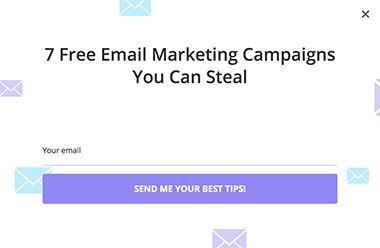
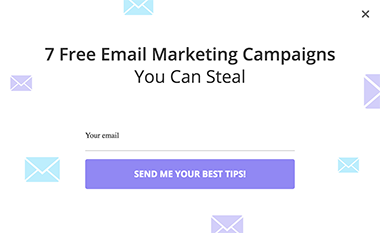
changes according same look for lahore theme

diff --git a/lib/themes/lahore/element.scss b/lib/themes/lahore/element.scss
@@ -14,7 +14,7 @@
   #hellobar-alert {
     border-radius: 0px;
     .hb-cta {
-      max-width: none;
+      max-width: 24em;
     }
 
     .hb-content-wrapper {
@@ -30,28 +30,29 @@
         }
       }
     }
+    .hb-headline-text,
+    .hb-secondary-text {
+      margin:0;
+      font-size: 2em;
+      font-weight: 600;
+    }
+    .hb-secondary-text{
+      font-weight: 400;
+    }
   }
   #hellobar-modal {
     padding: 78px;
     max-width: 43.5em;
-    .hb-headline-text {
-      font-size: 2em;
-      margin-bottom: 0.6em;
-      font-weight: 600;
-    }
-    .hb-secondary-text {
-      font-size: 1em;
-    }
     .hb-name-input {
       margin-bottom: 5px;
     }
     .hb-input-wrapper{
       position: relative;
       z-index: 10;
-      max-width: 34.5em;
+      max-width: 24em;
     }
     .questionslist{
-      max-width:34.5em;
+      max-width: 24em;
       margin-left: auto;
       margin-right: auto;
     }
@@ -62,27 +63,38 @@
     }
   }
   #hellobar-takeover {
-    .hb-headline-text {
-      font-size: 1.6em;
-      font-weight: 600;
+    .hb-input-block{
+      input {
+        font-size: 0.7em;
+      }
     }
-    .hb-secondary-text {
-      font-size: 0.8em;
-      margin-top: 15px;
+    .hb-headline-text,
+    .hb-secondary-text{
+      font-size: 1.5em;
     }
-    .hb-input-block input {
-      font-size: 0.7em;
+    .hb-input-wrapper{
+      position: relative;
+      z-index: 10;
+      max-width: 18em;
+    }
+    .hb-text-wrapper{
+      max-width: 27em;
     }
     .hb-name-input {
       margin-bottom: 12px;
     }
     .hb-content-wrapper{
-      max-width: 540px;
+      max-width: 27em;
       margin: auto;
       right: 0;
     }
     .hb-cta {
       font-size: 0.8em;
+    }
+    .questionslist{
+      max-width: 18em;
+      margin-left: auto;
+      margin-right: auto;
     }
   }
   @media screen and (max-width: 640px){
@@ -91,6 +103,16 @@
         max-width: 277px;
         padding: 20px 0;
       }
+    }
+  }
+  #hellobar-slider{
+    .hb-headline-text{
+      font-size: 1.4em;
+      margin-bottom: 0.5em;
+    }
+    .hb-secondary-text{
+      font-size: 1.2em;
+      margin-bottom: 0.5em;
     }
   }
 }
